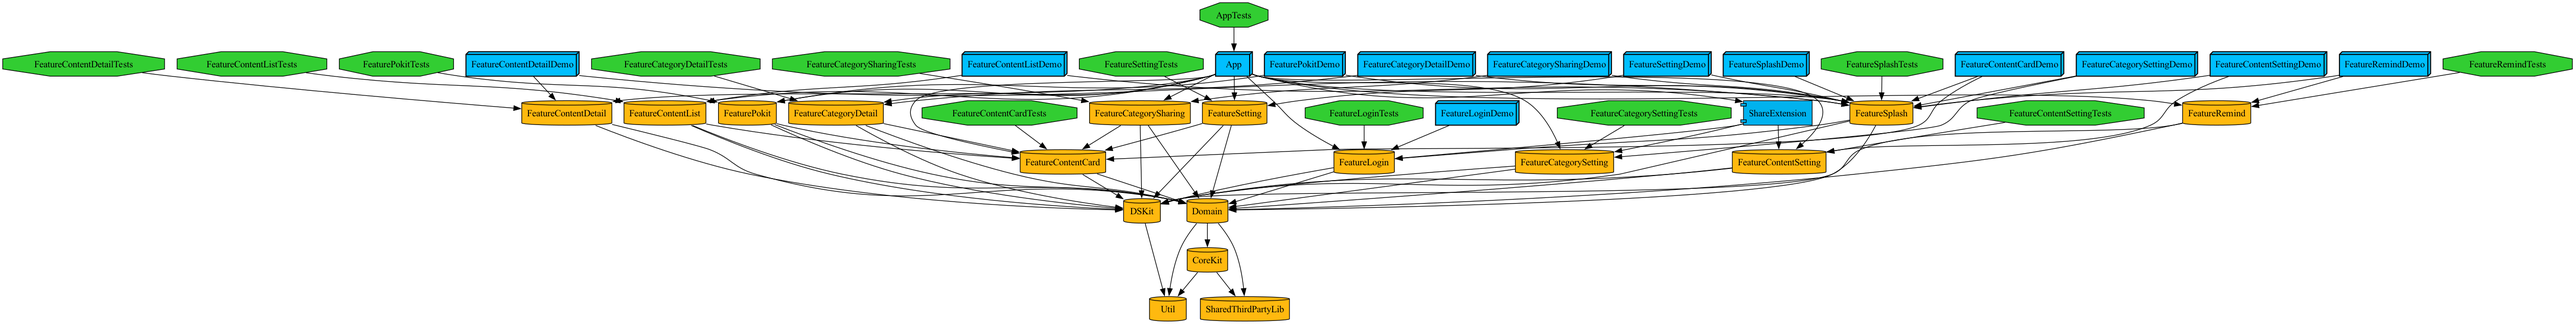
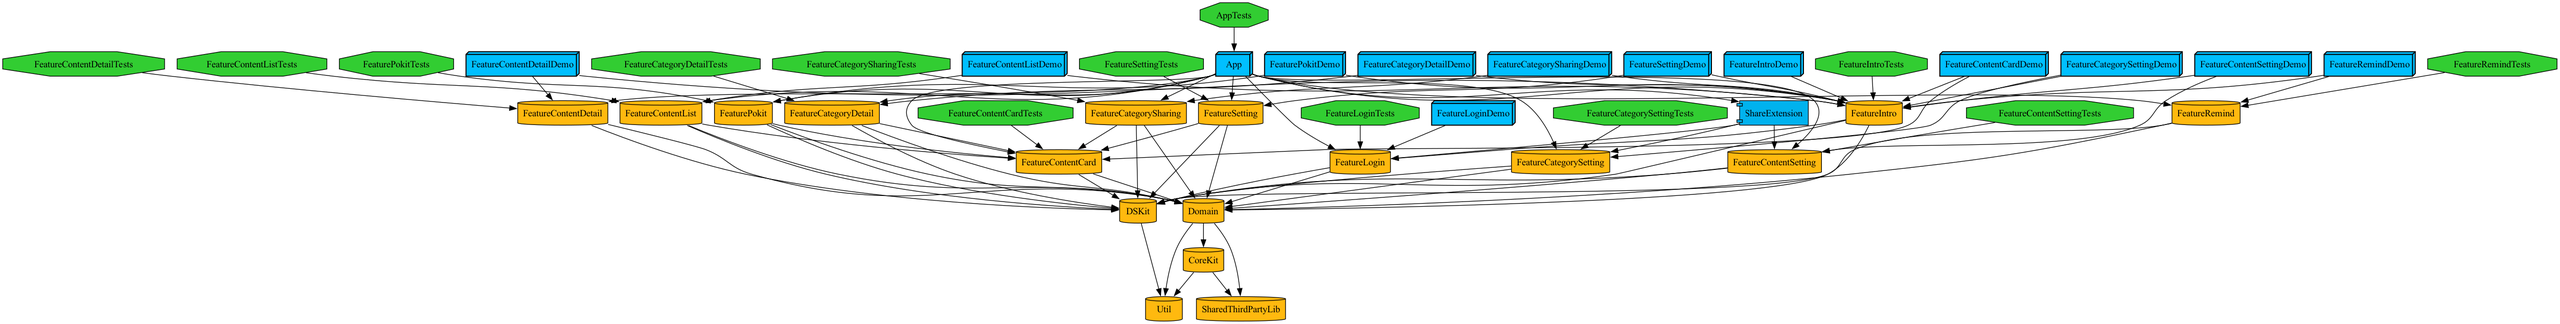
[refactor] #171 FeatureSplash -> FeatureIntro로 이름 변경

diff --git a/Tuist/ProjectDescriptionHelpers/Feature.swift b/Tuist/ProjectDescriptionHelpers/Feature.swift
@@ -20,7 +20,7 @@ public enum Feature: String, CaseIterable {
     case contentList = "ContentList"
     case categorySharing = "CategorySharing"
     case contentCard = "ContentCard"
-    case splash = "Splash"
+    case intro = "Intro"
     
     public var target: Target {
         return .makeTarget(
@@ -37,9 +37,9 @@ public enum Feature: String, CaseIterable {
     
     public var demoTarget: Target {
         var dependencies: [TargetDependency] = [.target(self.target)]
-        if self != .login && self != .splash {
+        if self != .login && self != .intro {
             dependencies.append(
-                .project(target: "FeatureSplash", path: .relativeToRoot("Projects/Feature"))
+                .project(target: "FeatureIntro", path: .relativeToRoot("Projects/Feature"))
             )
         }
         
@@ -94,7 +94,7 @@ public enum Feature: String, CaseIterable {
                 .project(target: "FeatureContentCard", path: .relativeToRoot("Projects/Feature"))
             ]
         case .contentCard: return []
-        case .splash:
+        case .intro:
             return [
                 .project(target: "FeatureLogin", path: .relativeToRoot("Projects/Feature"))
             ]

diff --git a/Projects/Feature/FeatureIntroDemo/Sources/FeatureIntroDemoApp.swift b/Projects/Feature/FeatureIntroDemo/Sources/FeatureIntroDemoApp.swift
@@ -8,7 +8,7 @@
 import SwiftUI
 
 @main
-struct FeatureSplashDemoApp: App {
+struct FeatureIntroDemoApp: App {
     var body: some Scene {
         WindowGroup {
             // TODO: 루트 뷰 추가

diff --git a/Projects/Feature/FeatureIntroTests/Sources/FeatureIntroTests.swift b/Projects/Feature/FeatureIntroTests/Sources/FeatureIntroTests.swift
@@ -1,0 +1,10 @@
+import ComposableArchitecture
+import XCTest
+
+@testable import FeatureIntro
+
+final class FeatureIntroTests: XCTestCase {
+    func test() {
+    
+    }
+}
